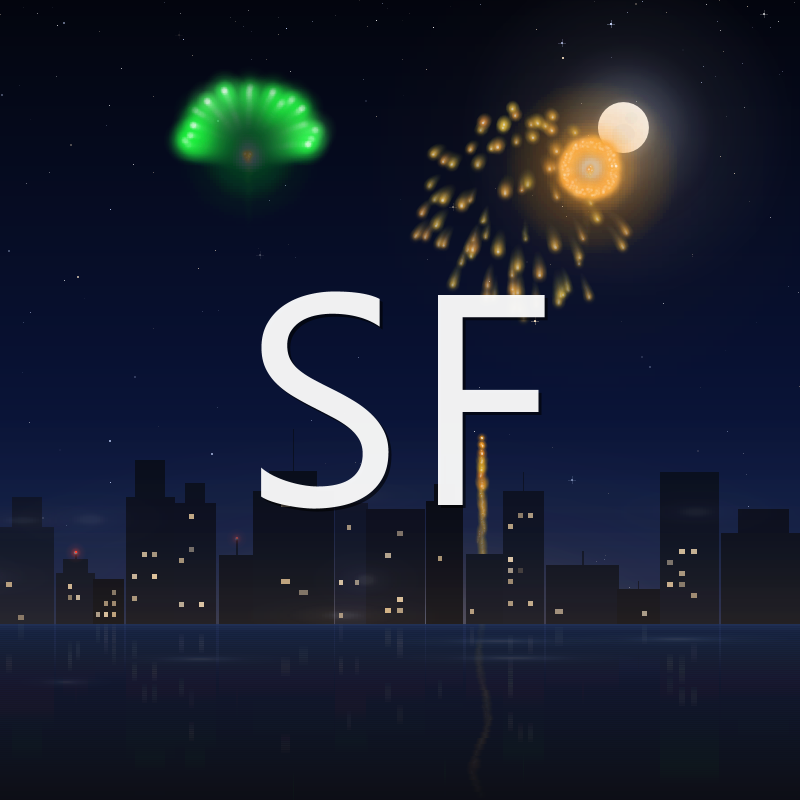
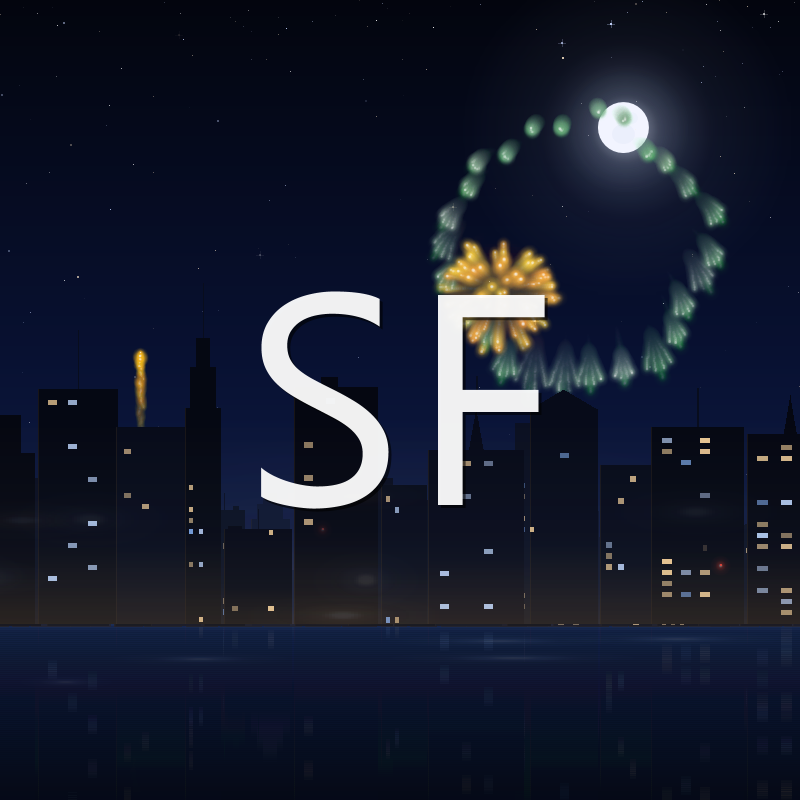
Ciudad con profundidad y sin la afirmacion de que no se repite
La ciudad era una sola fila de rectangulos planos con ventanas sueltas. Lo
que la hacia leerse como un cartel recortado y no como una ciudad era la
falta de perspectiva aerea.

Ahora son tres capas de profundidad. Lo lejano se aclara y se destine hacia
el azul del aire, no hacia el negro; lo cercano se recorta oscuro contra
ello, y ese contraste es lo que da el recorte. Cada edificio lleva ademas:

- Degradado vertical, con el pie recogiendo el resplandor de la calle. Plano
  se veia a carton.
- Luz de canto en una arista, que es lo que hace la ciudad sobre los bordes.
- Cinco remates distintos en vez de azotea plana: escalonado con retranqueos,
  aguja, cubierta a dos aguas, maquinaria de cubierta y mastil con baliza.
- Reticula de ventanas propia, y algunos edificios con plantas enteras
  encendidas como oficinas a medianoche. Una rejilla uniforme delata que es
  un dibujo.
- Tres temperaturas de luz: calida de vivienda, fria de oficina y el azul de
  una pantalla encendida a deshora.

Las ventanas solo se pintan en las dos capas de delante: en la del fondo
serian ruido y no detalle.

Primer intento con calima al 0,55: los edificios salieron lavados y grises en
vez de recortarse. Bajada a 0,34, con las alturas subidas y la capa cercana
oscurecida, que es lo que devuelve el contraste.

Quitada la afirmacion de que el espectaculo no se repite nunca, del banner y
de los textos del canal.

Coste: 11 ms por fotograma a 1080p, sin cambio respecto a antes porque el
[…]

diff --git a/src/j4f/Escenario.java b/src/j4f/Escenario.java
@@ -76,6 +76,23 @@ public class Escenario {
         return ESTRELLA_ALFA[tono][i];
     }
 
+    /**
+     * Capas de profundidad de la ciudad.
+     *
+     * Con una sola fila de rectangulos la ciudad se lee como un cartel
+     * recortado. Con tres y perspectiva aerea entre ellas, se lee como una
+     * ciudad. Subir el numero da mas profundidad y mas coste al redimensionar.
+     */
+    private static final int CAPAS_CIUDAD = 3;
+    /** Hacia donde se destinen los edificios lejanos: el aire, no el negro. */
+    private static final Color CALIMA_CIUDAD = new Color(0x2A, 0x3C, 0x6E);
+    /** Resplandor de la calle que sube por el pie de los edificios. */
+    private static final Color RESPLANDOR_CALLE = new Color(0x4A, 0x38, 0x22);
+    /** Luz fria de oficina. */
+    private static final Color LUZ_OFICINA = new Color(0xBF, 0xD8, 0xFF);
+    /** Azul de una pantalla encendida a deshora. */
+    private static final Color LUZ_PANTALLA = new Color(0x7E, 0xA8, 0xE8);
+
     private static final Color EDIFICIO_OSCURO = new Color(0x04, 0x06, 0x0F);
     private static final Color EDIFICIO_CLARO = new Color(0x0A, 0x10, 0x24);
     private static final Color LUZ_VENTANA = new Color(0xFF, 0xD9, 0xA0);
@@ -307,6 +324,18 @@ public class Escenario {
     // Skyline
     // ------------------------------------------------------------------
 
+    /**
+     * Silueta de la ciudad, horneada una vez por redimension.
+     *
+     * Tres capas de profundidad en vez de una fila plana de rectangulos. Lo
+     * que da sensacion de ciudad y no de cartel recortado es la perspectiva
+     * aerea: lo lejano se aclara y se destine porque hay aire de por medio, y
+     * lo cercano se recorta oscuro contra ello. Encima, cada edificio lleva su
+     * degradado vertical, su remate propio y una luz de canto tomada del
+     * resplandor de la calle.
+     *
+     * Todo esto se paga al redimensionar, no en cada fotograma.
+     */
     private BufferedImage crearSkyline() {
         BufferedImage img = new BufferedImage(ancho, alto, BufferedImage.TYPE_INT_ARGB);
         Graphics2D g = img.createGraphics();
@@ -315,87 +344,196 @@ public class Escenario {
         List<int[]> vivas = new ArrayList<int[]>();
         List<int[]> balizas = new ArrayList<int[]>();
 
-        int minVentana = Math.max(1, (int) Math.round(alto * 0.005));
-        int pisoAlto = Math.max(3, (int) Math.round(alto * 0.014));
-
-        int x = 0;
-        while (x < ancho) {
-            int w = (int) Math.round(Azar.entre(alto * 0.03, alto * 0.11));
-            if (w < 6) {
-                w = 6;
-            }
-            int h = (int) Math.round(Azar.entre(alto * 0.04, alto * 0.20));
-            if (h < 8) {
-                h = 8;
-            }
-            if (h > yHorizonte - 2) {
-                h = Math.max(4, yHorizonte - 2);
-            }
-            int baseAlta = yHorizonte - h;
-            int cima = baseAlta;
-
-            Color relleno = Destello.mezclar(EDIFICIO_OSCURO, EDIFICIO_CLARO,
-                    (float) Azar.entre(0.0, 1.0));
-            g.setColor(relleno);
-            g.fillRect(x, baseAlta, w, h);
-
-            // Remate escalonado.
-            if (Azar.probabilidad(0.35) && w > 10) {
-                int w2 = (int) Math.round(w * Azar.entre(0.45, 0.72));
-                int h2 = (int) Math.round(h * Azar.entre(0.12, 0.32));
-                if (w2 >= 4 && h2 >= 3 && baseAlta - h2 >= 0) {
-                    g.fillRect(x + (w - w2) / 2, baseAlta - h2, w2, h2);
-                    cima = baseAlta - h2;
-                }
-            }
-
-            // Mastil de antena con su baliza.
-            if (Azar.probabilidad(0.30)) {
-                int hm = (int) Math.round(h * Azar.entre(0.14, 0.32));
-                if (hm >= 4) {
-                    int xm = x + w / 2;
-                    int ym = Math.max(0, cima - hm);
-                    if (cima - ym > 0) {
-                        g.setColor(Destello.mezclar(relleno, EDIFICIO_CLARO, 0.6f));
-                        g.fillRect(xm, ym, Azar.probabilidad(0.5) ? 1 : 2, cima - ym);
-                        if (balizas.size() < MAX_BALIZAS && Azar.probabilidad(0.75)) {
-                            balizas.add(new int[]{xm, ym});
-                        }
-                    }
-                }
-            }
-
-            pintarVentanas(g, x, baseAlta, w, h, pisoAlto, minVentana, vivas);
-
-            x += w + Azar.entre(-2, 3);
+        // De la mas lejana a la mas cercana: las de delante tapan a las de atras.
+        for (int capa = 0; capa < CAPAS_CIUDAD; capa++) {
+            pintarCapaCiudad(g, capa, vivas, balizas);
         }
 
         g.dispose();
-
         volcarVentanas(vivas);
         volcarBalizas(balizas);
         return img;
     }
 
-    /** Ventanas encendidas: pocas, irregulares, nunca una rejilla uniforme. */
+    /**
+     * Una capa de profundidad.
+     *
+     * @param capa 0 la mas lejana. Decide altura, contraste y detalle: los
+     *             edificios del fondo no llevan ventanas sueltas porque a esa
+     *             distancia no se distinguirian y solo serian ruido.
+     */
+    private void pintarCapaCiudad(Graphics2D g, int capa, List<int[]> vivas,
+            List<int[]> balizas) {
+        double cercania = capa / (double) (CAPAS_CIUDAD - 1);
+        double altMin = alto * (0.040 + 0.070 * cercania);
+        double altMax = alto * (0.115 + 0.185 * cercania);
+        double anchoMin = alto * (0.020 + 0.020 * cercania);
+        double anchoMax = alto * (0.055 + 0.065 * cercania);
+        // Calima de la distancia: el fondo tira a azul claro, no a negro.
+        float calima = (float) (0.34 * (1 - cercania));
+        int baseY = yHorizonte + (int) Math.round(alto * 0.004 * (1 - cercania));
+
+        int pisoAlto = Math.max(3, (int) Math.round(alto * 0.014));
+        int minVentana = Math.max(1, (int) Math.round(alto * 0.005));
+
+        int x = -(int) Math.round(Azar.entre(0.0, anchoMax));
+        while (x < ancho) {
+            int w = (int) Math.round(Azar.entre(anchoMin, anchoMax));
+            if (w < 5) {
+                w = 5;
+            }
+            int h = (int) Math.round(Azar.entre(altMin, altMax));
+            if (h < 8) {
+                h = 8;
+            }
+            if (h > baseY - 2) {
+                h = Math.max(4, baseY - 2);
+            }
+            int cima = baseY - h;
+
+            Color base = Destello.mezclar(EDIFICIO_OSCURO, EDIFICIO_CLARO,
+                    (float) Azar.entre(0.0, 1.0));
+            base = Destello.mezclar(base, CALIMA_CIUDAD, calima);
+            if (capa == CAPAS_CIUDAD - 1) {
+                // La primera fila se recorta casi en negro contra lo de atras:
+                // sin ese contraste las tres capas se funden en una mancha.
+                base = Destello.mezclar(base, EDIFICIO_OSCURO, 0.45f);
+            }
+            // Degradado vertical: el pie recoge el resplandor de la calle y la
+            // coronacion queda limpia contra el cielo. Plano se ve a carton.
+            Color pie = Destello.mezclar(base, RESPLANDOR_CALLE,
+                    0.22f + 0.10f * (1 - (float) cercania));
+            g.setPaint(new LinearGradientPaint(
+                    new Point2D.Float(0, cima), new Point2D.Float(0, baseY),
+                    new float[]{0f, 0.62f, 1f},
+                    new Color[]{base, base, pie}));
+            g.fillRect(x, cima, w, h);
+
+            // Luz de canto en una arista: la ciudad ilumina los bordes.
+            g.setPaint(null);
+            g.setColor(Destello.alfa(Destello.mezclar(base, RESPLANDOR_CALLE, 0.55f),
+                    (int) (70 + 60 * cercania)));
+            g.fillRect(x, cima, 1, h);
+
+            pintarRemate(g, x, cima, w, h, base, cercania, balizas);
+
+            if (capa > 0) {
+                pintarVentanas(g, x, cima, w, h, pisoAlto, minVentana,
+                        vivas, cercania, calima);
+            }
+            x += w + (int) Math.round(Azar.entre(-2.0, 4.0 + 4.0 * cercania));
+        }
+    }
+
+    /**
+     * Corona el edificio.
+     *
+     * Cinco remates distintos en vez de una azotea plana: es lo que le da
+     * silueta propia a la linea del cielo.
+     *
+     * @return la cota mas alta alcanzada.
+     */
+    private int pintarRemate(Graphics2D g, int x, int cima, int w, int h,
+            Color base, double cercania, List<int[]> balizas) {
+        g.setPaint(null);
+        g.setColor(base);
+        double d = Azar.entre(0.0, 1.0);
+        int arriba = cima;
+
+        if (d < 0.30 && w > 10) {
+            // Escalonado: retranqueos, como un rascacielos clasico.
+            int w2 = (int) Math.round(w * Azar.entre(0.50, 0.74));
+            int h2 = (int) Math.round(h * Azar.entre(0.10, 0.24));
+            if (w2 >= 4 && h2 >= 3 && cima - h2 >= 0) {
+                g.fillRect(x + (w - w2) / 2, cima - h2, w2, h2);
+                arriba = cima - h2;
+                if (Azar.probabilidad(0.5) && w2 > 8) {
+                    int w3 = (int) Math.round(w2 * 0.55);
+                    int h3 = (int) Math.round(h2 * 0.7);
+                    if (w3 >= 3 && arriba - h3 >= 0) {
+                        g.fillRect(x + (w - w3) / 2, arriba - h3, w3, h3);
+                        arriba -= h3;
+                    }
+                }
+            }
+        } else if (d < 0.45 && w > 8) {
+            // Aguja.
+            int ha = (int) Math.round(h * Azar.entre(0.10, 0.26));
+            int xa = x + w / 2;
+            for (int i = 0; i < ha && cima - i >= 0; i++) {
+                int anchoAguja = Math.max(1, (int) ((1 - (double) i / ha) * w * 0.16));
+                g.fillRect(xa - anchoAguja / 2, cima - i, anchoAguja, 1);
+            }
+            arriba = Math.max(0, cima - ha);
+        } else if (d < 0.58 && w > 12) {
+            // Cubierta a dos aguas: rompe la monotonia de las azoteas.
+            int ht = (int) Math.round(h * Azar.entre(0.05, 0.12));
+            for (int i = 0; i < ht && cima - i >= 0; i++) {
+                int anchoFila = (int) (w * (1 - (double) i / ht));
+                g.fillRect(x + (w - anchoFila) / 2, cima - i, Math.max(1, anchoFila), 1);
+            }
+            arriba = Math.max(0, cima - ht);
+        } else if (d < 0.72 && w > 10) {
+            // Maquinaria de cubierta: volumenes pequenos y descentrados.
+            int n = Azar.entre(1, 2);
+            for (int i = 0; i < n; i++) {
+                int wc = Math.max(3, (int) Math.round(w * Azar.entre(0.14, 0.30)));
+                int hc = Math.max(2, (int) Math.round(h * Azar.entre(0.02, 0.05)));
+                int xc = x + Azar.entre(2, Math.max(3, w - wc - 2));
+                if (cima - hc >= 0) {
+                    g.fillRect(xc, cima - hc, wc, hc);
+                }
+            }
+        }
+
+        // Mastil con baliza, mas probable en lo cercano.
+        if (Azar.probabilidad(0.22 + 0.20 * cercania)) {
+            int hm = (int) Math.round(h * Azar.entre(0.12, 0.30));
+            if (hm >= 4) {
+                int xm = x + w / 2;
+                int ym = Math.max(0, arriba - hm);
+                if (arriba - ym > 0) {
+                    g.setColor(Destello.mezclar(base, EDIFICIO_CLARO, 0.6f));
+                    g.fillRect(xm, ym, Azar.probabilidad(0.5) ? 1 : 2, arriba - ym);
+                    if (balizas.size() < MAX_BALIZAS && Azar.probabilidad(0.75)) {
+                        balizas.add(new int[]{xm, ym});
+                    }
+                }
+            }
+        }
+        return arriba;
+    }
+
+    /**
+     * Ventanas encendidas.
+     *
+     * Cada edificio tiene su reticula y su caracter: unos con plantas enteras
+     * iluminadas, otros con luces sueltas. Una rejilla uniforme delata al
+     * instante que es un dibujo.
+     */
     private void pintarVentanas(Graphics2D g, int x, int y, int w, int h,
-            int pisoAlto, int minVentana, List<int[]> vivas) {
+            int pisoAlto, int minVentana, List<int[]> vivas,
+            double cercania, float calima) {
+        g.setPaint(null);
         int margen = Math.max(2, w / 8);
-        int vw = Math.max(minVentana, (int) Math.round(w * 0.11));
-        int vh = Math.max(minVentana, (int) Math.round(pisoAlto * 0.45));
-        int paso = vw + Math.max(2, vw);
+        int vw = Math.max(minVentana, (int) Math.round(w * Azar.entre(0.08, 0.14)));
+        int vh = Math.max(minVentana, (int) Math.round(pisoAlto * Azar.entre(0.35, 0.55)));
+        int paso = vw + Math.max(2, (int) (vw * Azar.entre(0.9, 1.6)));
         int columnas = (w - margen * 2) / paso;
         if (columnas < 1) {
             return;
         }
         double densidad = Azar.entre(0.10, 0.42);
+        // Oficinas a medianoche: plantas enteras encendidas.
+        boolean porPlantas = Azar.probabilidad(0.22);
 
         for (int fy = y + pisoAlto; fy < y + h - vh; fy += pisoAlto) {
-            if (Azar.probabilidad(0.45)) {
-                continue; // Planta entera a oscuras.
+            boolean plantaViva = porPlantas && Azar.probabilidad(0.30);
+            if (!plantaViva && Azar.probabilidad(0.45)) {
+                continue;
             }
             for (int c = 0; c < columnas; c++) {
-                if (!Azar.probabilidad(densidad)) {
+                if (!plantaViva && !Azar.probabilidad(densidad)) {
                     continue;
                 }
                 int vx = x + margen + c * paso;
@@ -403,14 +541,23 @@ public class Escenario {
                     continue;
                 }
                 if (vivas.size() < MAX_VENTANAS_VIVAS && Azar.probabilidad(0.02)) {
-                    // Esta no se hornea: parpadeara en vivo sobre la capa.
                     vivas.add(new int[]{vx, fy, vw, vh});
                     continue;
                 }
-                Color luz = Destello.mezclar(LUZ_VENTANA,
-                        Azar.probabilidad(0.25) ? new Color(0xBF, 0xD8, 0xFF) : Color.WHITE,
-                        (float) Azar.entre(0.0, 0.35));
-                g.setColor(Destello.alfa(luz, Azar.entre(120, 235)));
+                // Tres temperaturas: calida de vivienda, fria de oficina y el
+                // azul de una pantalla encendida.
+                Color luz;
+                double t = Azar.entre(0.0, 1.0);
+                if (t < 0.62) {
+                    luz = LUZ_VENTANA;
+                } else if (t < 0.92) {
+                    luz = LUZ_OFICINA;
+                } else {
+                    luz = LUZ_PANTALLA;
+                }
+                luz = Destello.mezclar(luz, CALIMA_CIUDAD, calima * 0.6f);
+                int op = (int) (Azar.entre(120, 235) * (0.55 + 0.45 * cercania));
+                g.setColor(Destello.alfa(luz, op));
                 g.fillRect(vx, fy, vw, vh);
             }
         }

diff --git a/canal/textos_canal.md b/canal/textos_canal.md
@@ -19,12 +19,10 @@ lo que ayuda en un nicho con mucho público internacional.
 
 ## Descripción del canal (pestaña "Información")
 
-> Fuegos artificiales sobre una bahía en calma, en directo y sin repetirse nunca.
+> Fuegos artificiales en directo sobre una bahía en calma.
 >
-> Ponlo de fondo para estudiar, trabajar, leer o dormir. No hay locutor, no hay
-> cortes y no hay dos minutos iguales: cada cohete, cada estallido y cada nota
-> de música se generan en el momento, así que lo que ves ahora no ha existido
-> antes ni volverá a existir.
+> Ponlo de fondo para estudiar, trabajar, leer o dormir. No hay locutor y no
+> hay cortes: solo la ciudad, el agua y los fuegos.
 >
 > La música cambia sola entre seis ambientes —chill, jazz, clásica, caribeña,
 > guitarra y violín— y acompaña a lo que pasa en el cielo.
@@ -35,8 +33,8 @@ lo que ayuda en un nicho con mucho público internacional.
 
 ## Descripción corta (bajo el nombre, ~120 caracteres)
 
-> Fuegos artificiales en directo sobre una bahía en calma. Nunca se repiten.
-> Para estudiar, trabajar o dormir.
+> Fuegos artificiales en directo sobre una bahía en calma. Para estudiar,
+> trabajar o dormir.
 
 ---
 
@@ -44,10 +42,9 @@ lo que ayuda en un nicho con mucho público internacional.
 
 > 🎆 Sonnus Flare · Fuegos artificiales en directo 24/7
 >
-> Un espectáculo que no se repite nunca, con música generada en tiempo real.
-> Perfecto como fondo para estudiar, concentrarte, relajarte o dormir.
+> Un espectáculo continuo con música generada en tiempo real. Perfecto como
+> fondo para estudiar, concentrarte, relajarte o dormir.
 >
-> ⏱ Sin bucles: todo lo que suena y se ve se está creando ahora mismo.
 > 🎵 Seis ambientes musicales que se alternan solos.
 > 🌙 Sin voz, sin cortes, sin sobresaltos.
 >
@@ -79,7 +76,7 @@ para un vídeo aparte, un comentario fijado o la sección de enlaces:
 > Los fuegos tienen física propia; la música la compone una red neuronal que
 > propone las frases y un motor de armonía que las corrige; el sonido pasa por
 > un sintetizador y una cadena de efectos hechos a mano. No hay vídeo grabado
-> ni pistas de audio: si lo dejas puesto un mes, no se repite.
+> ni pistas de audio: todo se calcula mientras lo ves.
 
 ---
 
